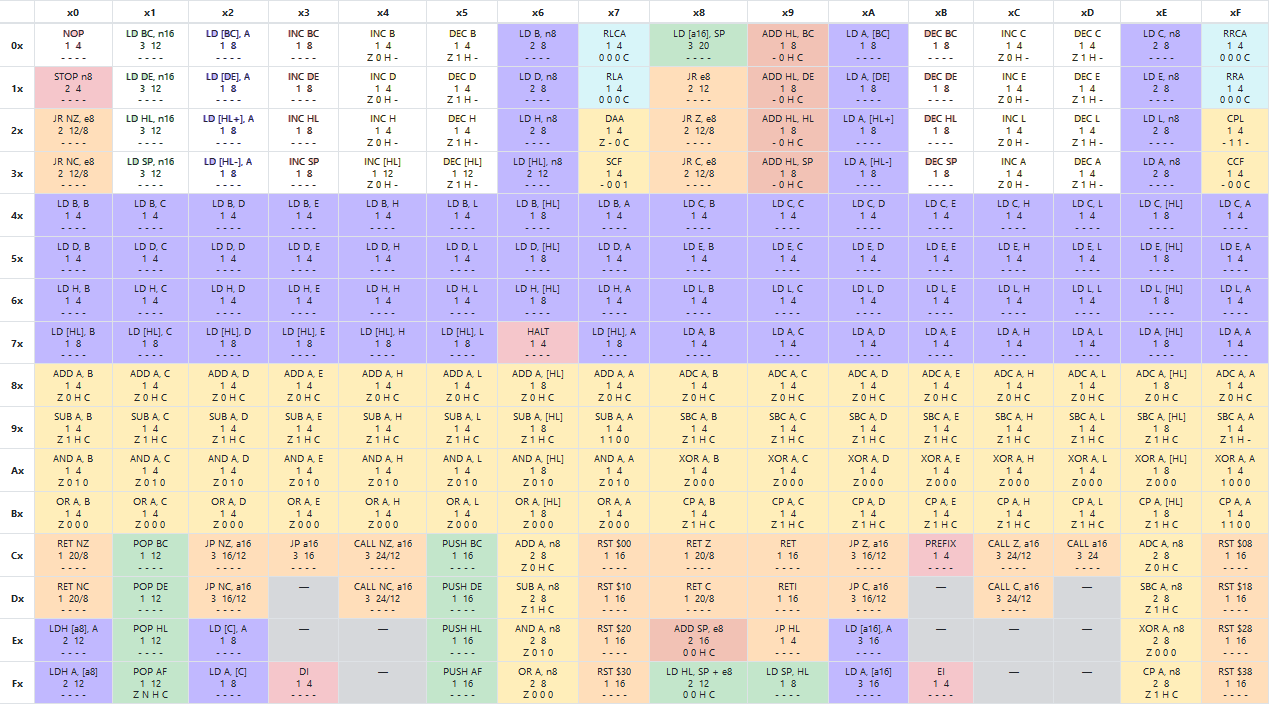
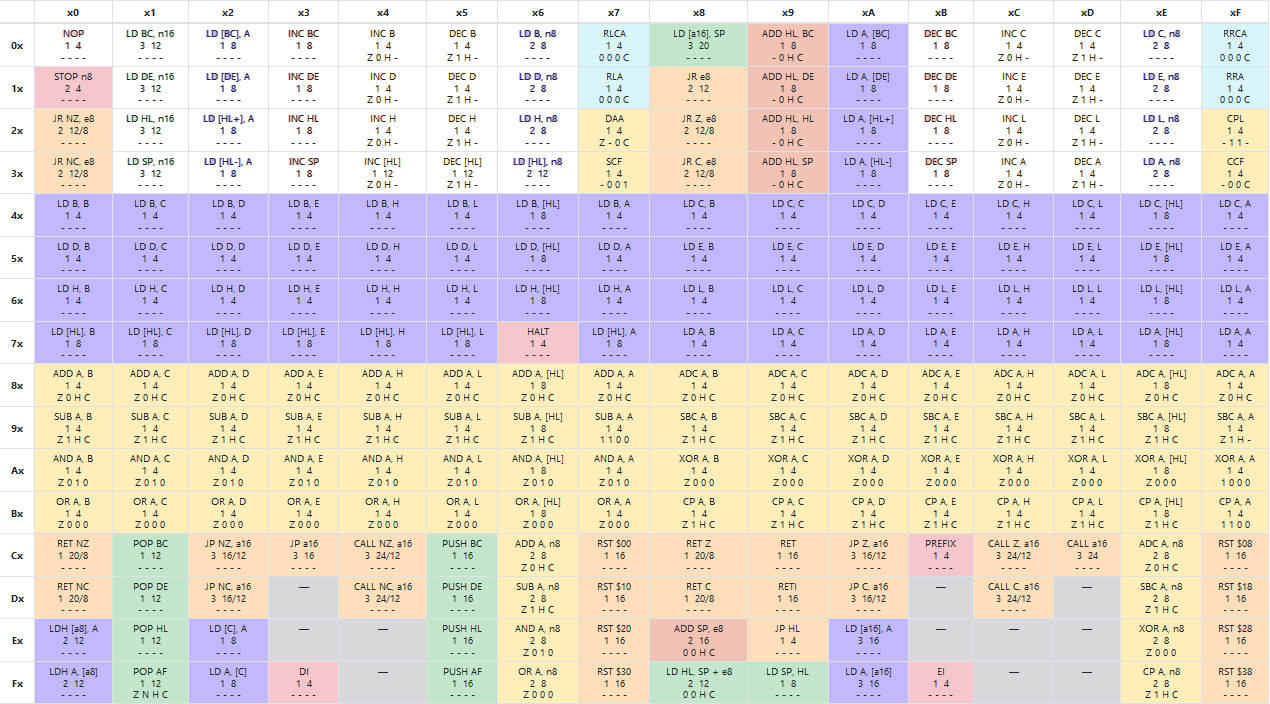
add load immediate instructions, fix timings for r8 operand instructions (only [HL] takes 12 cycles), make it easier to handle [HL] as an r8 operand by using a wrapper on the get/set 8-bit register functions

Changed region(s): [[0.8598, 0.0312, 0.952, 0.2812], [0.3685, 0.0312, 0.4606, 0.2812]]

diff --git a/src/instructions.rs b/src/instructions.rs
@@ -28,16 +28,19 @@ pub fn get_unprefixed_instructions() -> Vec<Instruction> {
 	let instructions: Vec<Instruction> = vec![
 		Instruction::new(vec![0x00], 4, "NOP", NOP),
 
+		// any 8-bit instruction with [HL] takes longer
+
 		Instruction::new(vec![0x01, 0x11, 0x21, 0x31], 12, "LD r16, imm16", LD_R16_IMM),
+		Instruction::new(vec![0x06, 0x16, 0x26, 0x0E, 0x1E, 0x2E, 0x3E], 8, "LD r8, imm8", LD_R8_IMM),
+		Instruction::new(vec![0x36], 12, "LD r8, [HL]", LD_R8_IMM),
 		Instruction::new(vec![0x02, 0x12, 0x22, 0x32], 8, "LD [r16mem], A", LD_R16MEM_A),
 
 		Instruction::new(vec![0x03, 0x13, 0x23, 0x33], 8, "INC r16", INC_R16),
 		Instruction::new(vec![0x0B, 0x1B, 0x2B, 0x3B], 8, "DEC r16", DEC_R8),
-
-		Instruction::new(vec![0x04, 0x14, 0x24, 0x34], 12, "INC r8 (L)", INC_R8),
-		Instruction::new(vec![0x0C, 0x1C, 0x2C, 0x3C], 4, "INC r8, (R)", INC_R8),
-		Instruction::new(vec![0x05, 0x15, 0x25, 0x35], 12, "DEC r8 (L)", DEC_R8),
-		Instruction::new(vec![0x0D, 0x1D, 0x2D, 0x3D], 4, "DEC r8 (R)", DEC_R8),
+		Instruction::new(vec![0x04, 0x14, 0x24, 0x0C, 0x1C, 0x2C, 0x3C], 4, "INC r8", INC_R8),
+		Instruction::new(vec![0x34], 12, "INC [HL],", INC_R8),
+		Instruction::new(vec![0x05, 0x15, 0x25, 0x0D, 0x1D, 0x2D, 0x3D], 4, "DEC r8", DEC_R8),
+		Instruction::new(vec![0x35], 12, "DEC [HL]", DEC_R8),
 	];
 
 	instructions
@@ -61,7 +64,7 @@ fn NOP(cpu: &mut CPU, opcode: u8, cycles: u16) {
 /*
 
 MNEMONIC: NOP
-OPCODES: [0x00] 
+OPCODES: 0x00
 DESC: No-op; does nothing
 FLAGS: - - - -
 
@@ -95,6 +98,25 @@ fn LD_R16_IMM(cpu: &mut CPU, opcode: u8, cycles: u16) {
 
 	cpu.pc += 1;
 
+}
+
+/*
+
+MNEMONIC: LD r8, imm8
+OPCODES: 0x(0-3)6, 0x(0-3)E
+DESC: loads an 8 bit immediate into r8
+FLAGS: - - - -
+
+*/
+fn LD_R8_IMM(cpu: &mut CPU, opcode: u8, cycles: u16) {
+	let dest = Register8Bit::from_r8(opcode >> 4);
+
+	cpu.pc += 1;
+	let src = cpu.bus.read_byte(cpu.pc);
+
+	cpu.set_8bit_reg(dest, src);
+
+	cpu.pc += 1;
 }
 
 /*
@@ -182,16 +204,9 @@ fn INC_R8(cpu: &mut CPU, opcode: u8, cycles: u16) {
 
 	let old_carry = cpu.registers.get_flag(Flag::C);
 
-	if reg == Register8Bit::HL {
-		// increment the value the memory location stored in HL, set flags
-		let target = cpu.registers.get_16bit_reg(Register16Bit::HL);
-		let new_value = cpu.add_8bit(cpu.bus.read_byte(target), 1);
-		
-		cpu.bus.write_byte(target, new_value);
-	} else {
-		let new_value = cpu.add_8bit(cpu.registers.get_8bit_reg(reg), 1);
-		cpu.registers.set_8bit_reg(reg, new_value);
-	}
+	let old_value = cpu.get_8bit_reg(reg);
+	let new_value = cpu.add_8bit(old_value, 1);
+	cpu.set_8bit_reg(reg, new_value);
 
 	cpu.registers.set_flag(Flag::C, old_carry);
 
@@ -213,16 +228,9 @@ fn DEC_R8(cpu: &mut CPU, opcode: u8, cycles: u16) {
 
 	let old_carry = cpu.registers.get_flag(Flag::C);
 
-	if reg == Register8Bit::HL {
-		// decrement the value the memory location stored in HL, set flags
-		let target = cpu.registers.get_16bit_reg(Register16Bit::HL);
-		let new_value = cpu.sub_8bit(cpu.bus.read_byte(target), 1);
-		
-		cpu.bus.write_byte(target, new_value);
-	} else {
-		let new_value = cpu.sub_8bit(cpu.registers.get_8bit_reg(reg), 1);
-		cpu.registers.set_8bit_reg(reg, new_value);
-	}
+	let old_value = cpu.get_8bit_reg(reg);
+	let new_value = cpu.sub_8bit(old_value, 1);
+	cpu.set_8bit_reg(reg, new_value);
 
 	cpu.registers.set_flag(Flag::C, old_carry);
 

diff --git a/src/cpu.rs b/src/cpu.rs
@@ -70,6 +70,34 @@ impl<'a> CPU<'a> {
 
 	}
 	
+	pub fn get_deref_hl(&self) -> u8 {
+		self.bus.read_byte(self.registers.get_16bit_reg(Register16Bit::HL))
+	}
+
+	pub fn set_deref_hl(&mut self, write: u8) {
+		self.bus.write_byte(self.registers.get_16bit_reg(Register16Bit::HL), write);
+	}
+
+	/*
+		8bit register wrappers that include [HL]
+	*/
+
+	pub fn get_8bit_reg(&mut self, reg: Register8Bit) -> u8 {
+		if reg == Register8Bit::HL {
+			self.get_deref_hl()
+		} else {
+			self.registers.get_8bit_reg(reg)
+		}
+	}
+
+	pub fn set_8bit_reg(&mut self, reg: Register8Bit, write: u8) {
+		if reg == Register8Bit::HL {
+			self.set_deref_hl(write);
+		} else {
+			self.registers.set_8bit_reg(reg, write);
+		}
+	}
+
 	// adds rhs to reg, update flags
 	pub fn add_8bit(&mut self, lhs: u8, rhs: u8) -> u8 {
 		let (new_value, did_overflow) = lhs.overflowing_add(rhs);

diff --git a/src/main.rs b/src/main.rs
@@ -24,6 +24,8 @@ fn main() {
 	let instructions = get_unprefixed_instructions();
 	let prefixed_instructions = get_prefixed_instructions();
 
+	cpu.pc = 0x100;
+
 	cpu.cycle(&instructions, &prefixed_instructions);
 	cpu.cycle(&instructions, &prefixed_instructions);
 	cpu.cycle(&instructions, &prefixed_instructions);
